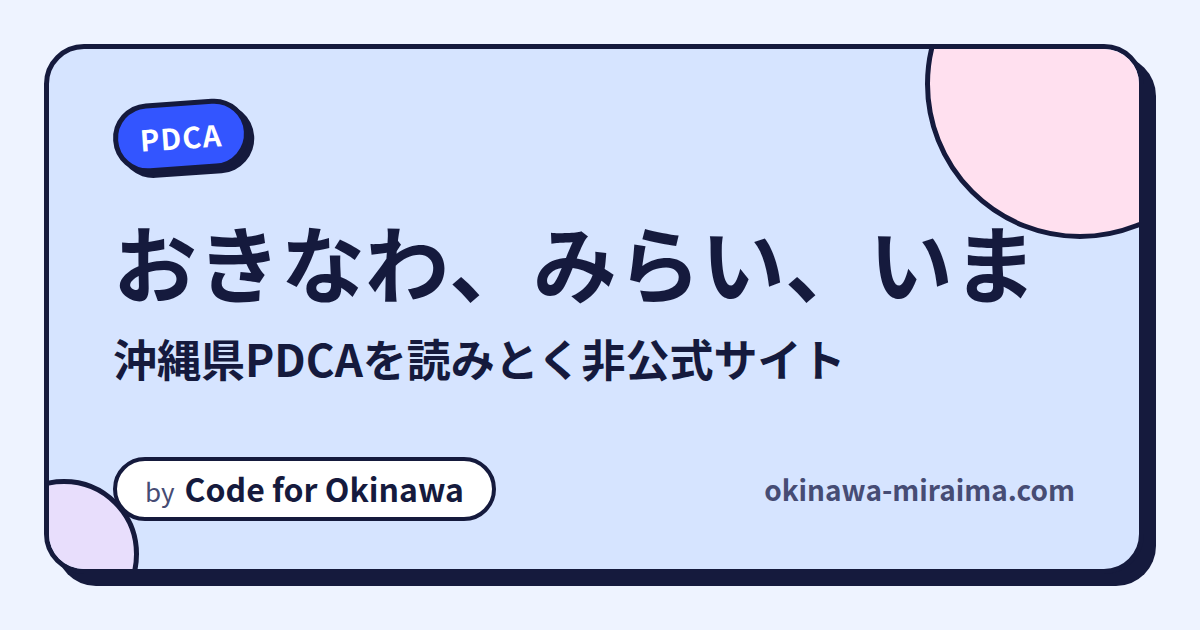
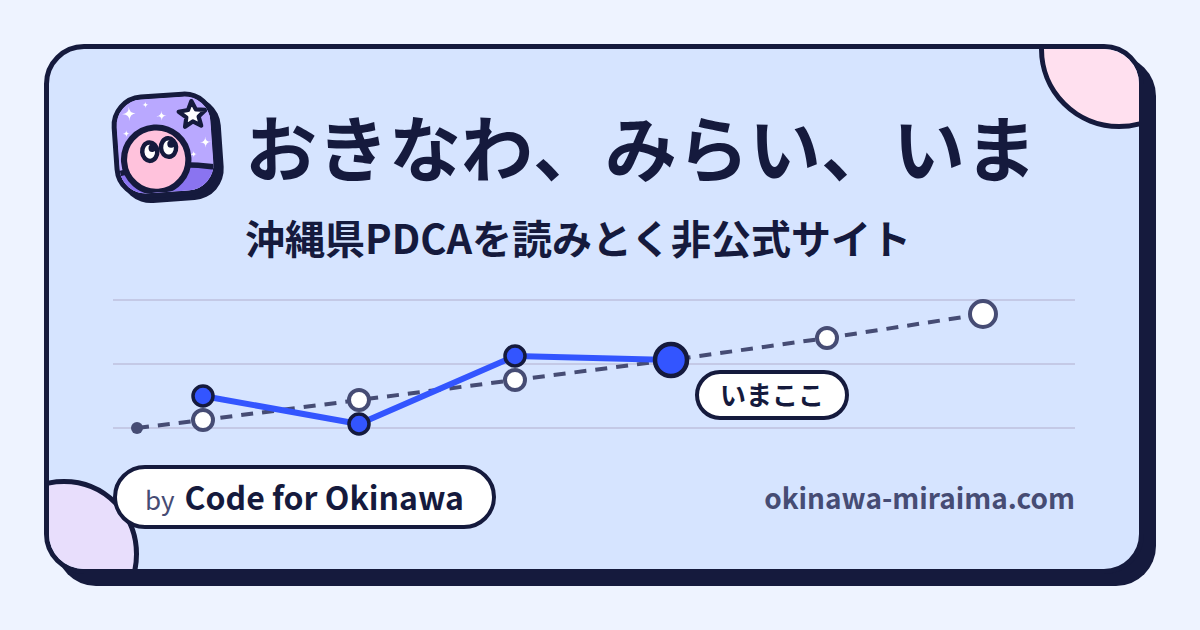
SNS のカード画像に、PDCA の印に替えてサイトのロゴと図の線を入れる
- #58 でヘッダーの印がロゴになったので、カード画像も「PDCA」の文字の印をやめ、ヘッダーと同じく
  ロゴ（角の丸い四角・太い線・硬い影・-4° の小さなステッカー）と名前を1行に並べる。説明は名前の頭にそろえる
- 説明の下に、成果指標の図と同じ形の線を絵として入れる（点線の計画の道すじと白い丸がゴールへ向かい、
  青い実績の線と点の最新に「いまここ」）。順調・遅れのどちらかに見えないよう、実績の点は計画の線の上と下に交互に置く
- 右上の丸の線が名前にかからないよう、丸を小さくする
- ロゴの絵は site/public/favicon.svg を読んで使う（3か所目の写しを作らない）。縁の内側を四隅まで広げる処理を
  scripts/shot/logo.ts に切り出し、icons.ts と og-image.ts で使う（make icons の書き出しは前と同じ）
- docs: カード画像の見た目・ロゴを変えたら make og-image も動かすこと・カードの題名と説明は
  ページの題名と説明文（#55 の lib/describe.ts）をそのまま出すこと

refs #41

diff --git a/scripts/shot/og-image.ts b/scripts/shot/og-image.ts
@@ -4,43 +4,78 @@
 //
 // - 書き出し先・大きさは site/src/lib/seo.ts の OG_IMAGE（site/public/og-image.png。1200×630）。この画像は git に入れる
 // - 文字はサイトの名前・説明・作り手（site/src/lib/links.ts の SITE・PROJECT）から入れる。名前を変えたら作り直す
-// - 見た目はトップのヒーローに合わせる（空色の地に太い線と硬い影のステッカー、角にピンクと薄紫の丸。docs/design.md の2章）。
+// - ロゴの絵は site/public/favicon.svg を読んで使う（絵を写さない。ロゴを変えたら make icons と一緒に作り直す）。
+//   ヘッダーと同じく、ロゴを名前の前に小さく置いて1行に並べる（説明は名前の頭にそろえる）。ヘッダーの印（styles/global.css の .site-title .mark）と同じく、
+//   角の丸い四角に太い線と硬い影を付けて -4° 傾ける
+// - 名前と説明の下に、サイトの成果指標の図（site/src/scripts/charts.ts の seika）と同じ形の線を絵として入れる（データではない）。
+//   点線の計画の道すじと白い丸がゴールへ向かい、青い実績の線と点の最新に「いまここ」の札。順調・遅れのどちらかに見えないよう、
+//   実績の点は計画の線の上と下に交互に置き、いまここは計画の線の上に置く（docs/design.md の1章）
+// - 地はトップのヒーローに合わせる（空色のステッカー、角にピンクと薄紫の丸。docs/design.md の2章）。
 //   色は site/src/styles/global.css の :root と同じ値。SNS では小さく出るので、線と影はページより太くする
 // - 日本語の書体はコンテナの Noto Sans CJK JP（サイトは日本語のウェブフォントを読み込まず端末の書体で出すので、丸ゴシックではない）
 import { chromium } from 'playwright';
 import { SITE, PROJECT } from '../../site/src/lib/links.ts';
 import { OG_IMAGE } from '../../site/src/lib/seo.ts';
+import { fullBleed, readLogo, tileColor } from './logo.ts';
 
 const OUT = `site/public${OG_IMAGE.path}`;
 const { width, height } = OG_IMAGE;
 
 const esc = (s: string) => s.replace(/&/g, '&amp;').replace(/</g, '&lt;').replace(/>/g, '&gt;');
 
+const logo = await readLogo();
+
+// 図（絵）。横は6つの年度の枠、縦は小さいほど上。数は見た目だけで決めたもので、データではない
+type Pt = [x: number, y: number];
+const G = { w: 962, h: 176 };
+const slot = (i: number) => 90 + i * 156;
+const start: Pt = [24, 152];
+const plan: Pt[] = [144, 124, 104, 84, 62, 38].map((y, i) => [slot(i), y]);
+const actual: Pt[] = [120, 148, 80, 84].map((y, i) => [slot(i), y]);
+const now = actual[actual.length - 1];
+const d = (pts: Pt[]) => pts.map(([x, y], i) => `${i ? 'L' : 'M'}${x} ${y}`).join(' ');
+const graph = `<svg class="graph" viewBox="0 0 ${G.w} ${G.h}" width="${G.w}" height="${G.h}">
+  ${[24, 88, 152].map((y) => `<line x1="0" x2="${G.w}" y1="${y}" y2="${y}" stroke="var(--grid)" stroke-width="2" />`).join('')}
+  <path d="${d([start, ...plan])}" fill="none" stroke="var(--ink-2)" stroke-width="4" stroke-dasharray="12 9" stroke-linejoin="round" />
+  <circle cx="${start[0]}" cy="${start[1]}" r="6" fill="var(--ink-2)" />
+  ${plan.map(([x, y], i) => `<circle cx="${x}" cy="${y}" r="${i === plan.length - 1 ? 13 : 10}" fill="var(--paper)" stroke="var(--ink-2)" stroke-width="4" />`).join('')}
+  <path d="${d(actual)}" fill="none" stroke="var(--pop)" stroke-width="6" stroke-linejoin="round" stroke-linecap="round" />
+  ${actual.slice(0, -1).map(([x, y]) => `<circle cx="${x}" cy="${y}" r="10" fill="var(--pop)" stroke="var(--line)" stroke-width="3.5" />`).join('')}
+  <circle cx="${now[0]}" cy="${now[1]}" r="16" fill="var(--pop)" stroke="var(--line)" stroke-width="4.5" />
+  <rect x="${now[0] + 26}" y="${now[1] + 12}" width="150" height="46" rx="23" fill="var(--paper)" stroke="var(--line)" stroke-width="4" />
+  <text x="${now[0] + 101}" y="${now[1] + 45}" text-anchor="middle" font-size="26" font-weight="700" fill="var(--ink)">いまここ</text>
+</svg>`;
+
 const html = `<!doctype html>
 <html lang="ja">
 <head>
 <meta charset="utf-8">
 <style>
-  :root { --bg: #eef3ff; --paper: #ffffff; --ink: #151a3d; --ink-2: #464c74; --line: #151a3d; --pop: #3355ff; --pop-ink: #ffffff; --sky: #d6e4ff; --lilac: #e8defc; --pink: #ffe0ef; }
+  :root { --bg: #eef3ff; --paper: #ffffff; --ink: #151a3d; --ink-2: #464c74; --line: #151a3d; --sky: #d6e4ff; --lilac: #e8defc; --pink: #ffe0ef; --pop: #3355ff; --grid: #c4c9e6; --logo-sky: ${tileColor(logo)}; }
   * { box-sizing: border-box; margin: 0; }
   html, body { width: ${width}px; height: ${height}px; }
   body { background: var(--bg); color: var(--ink); font-family: "Noto Sans CJK JP", sans-serif; padding: 44px 56px 56px 44px; }
   .card {
-    position: relative; overflow: hidden; display: flex; flex-direction: column; height: 100%; padding: 52px 64px 48px;
+    position: relative; overflow: hidden; display: flex; flex-direction: column; height: 100%; padding: 44px 64px 40px;
     background: var(--sky); border: 5px solid var(--line); border-radius: 40px; box-shadow: 12px 12px 0 var(--line);
   }
   .card::before, .card::after { content: ""; position: absolute; border-radius: 50%; border: 5px solid var(--line); }
-  .card::before { width: 300px; height: 300px; right: -96px; top: -120px; background: var(--pink); }
+  .card::before { width: 150px; height: 150px; right: -60px; top: -80px; background: var(--pink); } /* 線が名前にかからない大きさ */
   .card::after { width: 140px; height: 140px; left: -60px; bottom: -60px; background: var(--lilac); }
   .card > * { position: relative; z-index: 1; }
-  .mark {
-    display: grid; place-items: center; width: 136px; height: 70px; border-radius: 999px; transform: rotate(-4deg);
-    background: var(--pop); color: var(--pop-ink); border: 5px solid var(--line); box-shadow: 5px 5px 0 var(--line);
-    font-weight: 700; font-size: 29px; letter-spacing: 0.04em;
+  .main { --logo-w: 104px; --logo-gap: 28px; }
+  .head { display: flex; align-items: center; gap: var(--logo-gap); }
+  .logo {
+    flex: none; width: var(--logo-w); height: var(--logo-w); border-radius: 30%; overflow: hidden; transform: rotate(-4deg);
+    background: var(--logo-sky); border: 5px solid var(--line); box-shadow: 5px 5px 0 var(--line);
   }
-  h1 { margin-top: 40px; font-size: 84px; font-weight: 700; line-height: 1.2; }
-  .tagline { margin-top: 18px; font-size: 44px; font-weight: 700; line-height: 1.3; }
-  .foot { margin-top: auto; display: flex; align-items: center; justify-content: space-between; gap: 24px; }
+  .logo svg { display: block; width: 100%; height: 100%; }
+  h1 { font-size: 72px; font-weight: 700; line-height: 1.2; white-space: nowrap; }
+  .tagline { margin: 14px 0 0 calc(var(--logo-w) + var(--logo-gap)); font-size: 40px; font-weight: 700; line-height: 1.3; }
+  /* 図は説明と by の行のあいだの残りの高さの真ん中に置く */
+  .graph-box { flex: 1; display: flex; align-items: center; }
+  .graph { display: block; font-family: inherit; }
+  .foot { display: flex; align-items: center; justify-content: space-between; gap: 24px; }
   .by { background: var(--paper); border: 4px solid var(--line); border-radius: 999px; padding: 4px 28px 6px; font-size: 32px; font-weight: 700; }
   .by small { margin-right: 10px; font-size: 26px; font-weight: 400; color: var(--ink-2); }
   .host { font-size: 28px; font-weight: 700; color: var(--ink-2); }
@@ -48,9 +83,14 @@ const html = `<!doctype html>
 </head>
 <body>
   <div class="card">
-    <div class="mark">PDCA</div>
-    <h1>${esc(SITE.name)}</h1>
-    <p class="tagline">${esc(SITE.tagline)}</p>
+    <div class="main">
+      <div class="head">
+        <div class="logo">${fullBleed(logo)}</div>
+        <h1>${esc(SITE.name)}</h1>
+      </div>
+      <p class="tagline">${esc(SITE.tagline)}</p>
+    </div>
+    <div class="graph-box">${graph}</div>
     <div class="foot">
       <span class="by"><small>by</small>${esc(PROJECT.org)}</span>
       <span class="host">${esc(new URL(SITE.url).host)}</span>

diff --git a/scripts/shot/icons.ts b/scripts/shot/icons.ts
@@ -5,13 +5,12 @@
 //                                      四角の角の丸み（rect の rx）を外して、絵を四隅まで広げる
 //
 // コンテナ shot の Chromium で SVG を描いて撮る（ホストに画像のツールを入れないため）
-import { readFile, writeFile } from 'node:fs/promises';
+import { writeFile } from 'node:fs/promises';
 import { chromium } from 'playwright';
+import { LOGO_SRC, fullBleed, readLogo, tileColor } from './logo.ts';
 
-const SRC = 'site/public/favicon.svg';
-const svg = await readFile(SRC, 'utf8');
-const tile = svg.match(/id="tile"[^>]*fill="([^"]+)"/)?.[1];
-if (!tile) throw new Error(`${SRC} に id="tile" の地の四角が見つからない`);
+const svg = await readLogo();
+const tile = tileColor(svg);
 
 const browser = await chromium.launch();
 const page = await browser.newPage();
@@ -47,12 +46,8 @@ const images = [];
 for (const size of sizes) images.push({ size, data: await png(size, svg) });
 await writeFile('site/public/favicon.ico', ico(images));
 
-// 縁の内側だけを 180px に広げ、縁と四角の角の丸みを消す（丘が下の角まで続くように。ellipse の rx は残す）
-const touch = svg
-  .replace(/viewBox="[^"]*"/, 'viewBox="1.2 1.2 33.6 33.6"')
-  .replace(/<rect id="edge"[^>]*\/>/, '')
-  .replace(/(<rect[^>]*?)\srx="[^"]*"/g, '$1');
-await writeFile('site/public/apple-touch-icon.png', await png(180, touch, tile));
+// 縁の内側だけを 180px に広げる
+await writeFile('site/public/apple-touch-icon.png', await png(180, fullBleed(svg), tile));
 
 await browser.close();
-console.log(`favicon.ico（${sizes.join('・')}px）と apple-touch-icon.png（180px）を ${SRC} から書き出した`);
+console.log(`favicon.ico（${sizes.join('・')}px）と apple-touch-icon.png（180px）を ${LOGO_SRC} から書き出した`);

diff --git a/scripts/shot/logo.ts b/scripts/shot/logo.ts
@@ -1,0 +1,21 @@
+// ロゴの絵（site/public/favicon.svg）を、favicon 以外の画像（icons.ts・og-image.ts）でも使うための関数
+import { readFile } from 'node:fs/promises';
+
+export const LOGO_SRC = 'site/public/favicon.svg';
+
+export const readLogo = () => readFile(LOGO_SRC, 'utf8');
+
+// 地の四角（id="tile"）の色
+export function tileColor(svg: string): string {
+  const tile = svg.match(/id="tile"[^>]*fill="([^"]+)"/)?.[1];
+  if (!tile) throw new Error(`${LOGO_SRC} に id="tile" の地の四角が見つからない`);
+  return tile;
+}
+
+// 縁（id="edge"）の内側だけを描き、縁と四角の角の丸み（rect の rx）を消す（丘が下の角まで続くように。ellipse の rx は残す）。
+// 角を丸めて縁を付けるのは、描く側（端末・CSS）に任せる
+export const fullBleed = (svg: string) =>
+  svg
+    .replace(/viewBox="[^"]*"/, 'viewBox="1.2 1.2 33.6 33.6"')
+    .replace(/<rect id="edge"[^>]*\/>/, '')
+    .replace(/(<rect[^>]*?)\srx="[^"]*"/g, '$1');

diff --git a/docs/design.md b/docs/design.md
@@ -58,7 +58,7 @@
 ## 9. 意見とシェア
 
 - 意見: `/iken/` に県民意見募集（パブリックコメント）の受付の状態・いつでも使える県の窓口・SNS で話す方法をまとめる。募集の期間と県のページは `lib/iken.ts` の `BOSHU`（新しい募集が出たら書き換える。受付中・終了は**ビルドした日**で決まる）。募集の箱は「募集しています」の告知として書き、終わったら告知の上に「この募集は終了しました」の張り紙（`.harigami`）を重ねる。SNS のシェアは `components/Share.astro` のシェアパネル（白い枠に「シェア」の文字と、Facebook・LINE・X・Threads・Bluesky の順のアイコンだけの丸いボタンを並べる。開く URL は `lib/share.ts`、ロゴは Simple Icons の形を写した `lib/share-icons.ts`）。名前は読み上げ用の文字とツールチップ（`data-tip-value`）で出し、パネルとしてまとめるため外部リンクの印は付けない（`ExtLink` の例外。読み上げの「別のタブで開きます」は付ける）。公開の場の X・Threads・Bluesky にはハッシュタグ `#okinawa_miraima`（`lib/iken.ts` の `HASHTAG`。画面の文字もこれから出す）を付け、Facebook（sharer.php は URL だけ）と LINE（知り合いに送る）には付けない。ページの URL はビルド時に本番のドメイン（`lib/links.ts` の `SITE.url`）で入れる。施策・基本施策・取組・成果指標・部局・将来像・くらしのテーマのページは、終わり（出典の前）に `components/ShareBox.astro`（「この〇〇のページをシェアしよう」の言葉とシェアパネルだけ。説明の文は書かない）を置く（ページの上のほう・パンくずの行には置かない）。投稿の本文は `lib/iken.ts` の `shareText`（施策「〇〇」について）。SNS に書いても県には届かないことは `/iken/` で伝える（フッターは `/iken/` へのリンクだけ）。
-- SNS のカードの画像（`site/public/og-image.png`）はどのページも同じ1枚で、トップのヒーローと同じ形（空色の地に太い線と硬い影のステッカー、角にピンクと薄紫の丸）に、PDCA の印・サイトの名前・説明（沖縄県PDCAを読みとく非公式サイト）・by Code for Okinawa・ドメインを入れる。非公式で Code for Okinawa が作っていることが、画像だけでも分かるようにする。ページごとの画像は作らない（ページの名前は SNS のカードの題名に出る）。
+- SNS のカードの画像（`site/public/og-image.png`）はどのページも同じ1枚で、トップのヒーローと同じ形（空色の地に太い線と硬い影のステッカー、角にピンクと薄紫の丸）に、ヘッダーと同じくロゴ（-4° 傾けた小さなステッカー）とサイトの名前を1行に並べ、名前の頭にそろえて説明（沖縄県PDCAを読みとく非公式サイト）、その下に成果指標の図と同じ形の線（点線の計画の道すじと白い丸がゴールへ向かい、青い実績の線と点の最新に「いまここ」。データではない絵）、下に by Code for Okinawa とドメインを入れる。主は名前で、ロゴは添えるだけにする。線は順調・遅れのどちらかに見えないよう、実績の点を計画の線の上と下に交互に置き、いまここを計画の線の上に置く。非公式で Code for Okinawa が作っていることが、画像だけでも分かるようにする。ページごとの画像は作らない（ページの名前は SNS のカードの題名に出る）。
 
 ## 10. サイトの名前と作り手
 
@@ -66,7 +66,7 @@
 
 Code for Okinawa のプロジェクトとして saboyutaka が管理している（ヘッダーの「by Code for Okinawa」と `/code-for-okinawa/`。団体と管理者の URL は `site/src/lib/links.ts` の `PROJECT`）。
 
-ロゴは、角の丸い四角のステッカーに、淡い紫の星空と丘を描き、まるい子（いま）がみらいの白い星を見上げる絵（ヘッダーの印と favicon）。丸いハンコは施策の判定だけに使うので、印は丸にしない。笑顔などの表情は付けない（順調・遅れのどちらかの気分を足さないため）。色は `styles/global.css` の `--logo-*` で、状態の色と将来像の色は使わない。中の絵はダークでも同じ色にし、ダークで変えるのはステッカーの縁と影だけ（ほかのステッカーと同じ）。絵は `layouts/Base.astro` の SVG と `public/favicon.svg`（ライトの色の値を直接書く）の2か所にあり、変えたら両方を直して `make icons`（`favicon.ico` と iPhone のホーム画面の `apple-touch-icon.png` を書き出す）。
+ロゴは、角の丸い四角のステッカーに、淡い紫の星空と丘を描き、まるい子（いま）がみらいの白い星を見上げる絵（ヘッダーの印と favicon）。丸いハンコは施策の判定だけに使うので、印は丸にしない。笑顔などの表情は付けない（順調・遅れのどちらかの気分を足さないため）。色は `styles/global.css` の `--logo-*` で、状態の色と将来像の色は使わない。中の絵はダークでも同じ色にし、ダークで変えるのはステッカーの縁と影だけ（ほかのステッカーと同じ）。絵は `layouts/Base.astro` の SVG と `public/favicon.svg`（ライトの色の値を直接書く）の2か所にあり、変えたら両方を直して `make icons`（`favicon.ico` と iPhone のホーム画面の `apple-touch-icon.png` を書き出す）と `make og-image`（SNS のカードの画像。`favicon.svg` の絵を読む）。
 
 ## 11. ページごとの並び
 

diff --git a/docs/site.md b/docs/site.md
@@ -51,7 +51,7 @@
 - 全ページの head に `canonical` と `og:url`（本番のドメインでのそのページの URL。クエリは付けない）を出す。workers.dev・プレビュー・絞り込みのクエリ付きの URL も、本番のそのページとして扱ってもらうため。どの URL にも出る 404 のページだけは出さない（`Base` の `canonical={false}`）。
 - `sitemap.xml` は、`astro.config.ts` の小さな統合が、書き出した全ページ（404 と、`/torikumi/data.json` のようなファイルを除く）から作る。依存を足さないため `@astrojs/sitemap` は使わない。`robots.txt` は `pages/robots.txt.ts` で、巡回は止めずに sitemap の場所だけを書く（[deploy.md](deploy.md) の1章）。
 - 構造化データ（JSON-LD）は、トップに `WebSite`（サイトの名前と略称・作り手の Code for Okinawa・もとにした県の資料）、パンくずのあるページに `BreadcrumbList`（`components/Crumbs.astro`）を出す。県を作り手として書かない（県は `isBasedOn` に並べた資料の作り手として書く）。`<script type="application/ld+json">` はデータで、動くスクリプトではないので、3章の CSP のハッシュは要らない。
-- SNS のカードは、全ページの head に `og:image`（どのページも同じ1枚の `public/og-image.png`。大きさと説明の文も `og:image:width`・`og:image:height`・`og:image:alt` で書く）・`twitter:card`（`summary_large_image`）・`og:locale`（`ja_JP`）を出す。画像のパス・大きさ・説明の文は `lib/seo.ts` の `OG_IMAGE` に1か所で決める。画像は `scripts/shot/og-image.ts` が HTML から書き出す（`make og-image`。サイトの名前・説明・作り手は `lib/links.ts` から入れるので、名前を変えたら作り直す。書き出した PNG はコミットする）。
+- SNS のカードは、全ページの head に `og:image`（どのページも同じ1枚の `public/og-image.png`。大きさと説明の文も `og:image:width`・`og:image:height`・`og:image:alt` で書く）・`twitter:card`（`summary_large_image`）・`og:locale`（`ja_JP`）を出す。画像のパス・大きさ・説明の文は `lib/seo.ts` の `OG_IMAGE` に1か所で決める。画像は `scripts/shot/og-image.ts` が HTML から書き出す（`make og-image`。サイトの名前・説明・作り手は `lib/links.ts` から、ロゴの絵は `public/favicon.svg` から入れるので、名前やロゴを変えたら作り直す。書き出した PNG はコミットする）。カードの題名と説明の文は、ページの題名と説明文（下の `lib/describe.ts`）をそのまま `og:title`・`og:description` に出す。
 - `og:type` は、1つのもの（施策・取組・成果指標・基本施策・将来像・くらしのテーマ・部局・観光ロードマップ）を見せるページを `article`、一覧・トップ・サイトの説明を `website` にする（`Base` の `ogType`）。
 - SNS のシェアの URL も、ビルド時に本番のドメインで入れる（`components/Share.astro`）。
 - ページの説明文（`description`・`og:description`）は `lib/describe.ts` で作る。検索結果で切れても意味が通るように、最新の年度の中身（施策は判定と主な取組・成果指標の数、取組は4年分の進捗状況と所管課、成果指標は実績値・達成率・目標値、将来像・基本施策・部局・テーマは施策の判定と取組・成果指標の内訳）を先に、何のページかを後ろに書く。数はページが表示している数（頭の札・ドーナツ・判定のマス目）をそのまま渡し、`describe.ts` では数えない（1章）。内訳は県の区分の並びのまま、0でない区分を全部同じ重みで並べる（遅れだけを書く・遅れを先に書く、はしない）。くらしのテーマは、切れてもこのサイト独自の分類だと分かるように頭に書く。
